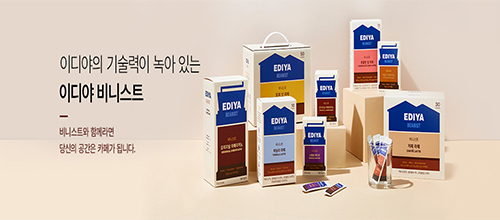
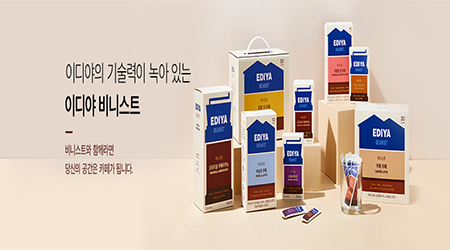
v3

diff --git a/index.html b/index.html
@@ -13,17 +13,17 @@
 
 <body>
   <input type="checkbox" id="popup_chk">
-    <div class="popup">
-      <div class="popup_img">
-        <a href="#!">
-          <img src="./img/popup_img.jpg" alt="popup_img">
-        </a>
-      </div>
-      <div class="popup_close">
-        <p><i class="far fa-check-circle"></i> 오늘하루동안 닫을래요</p>
-        <label for="popup_chk">닫기 X</label>
-      </div>
+  <div class="popup">
+    <div class="popup_img">
+      <a href="#!">
+        <img src="./img/popup_img.jpg" alt="popup_img">
+      </a>
     </div>
+    <div class="popup_close">
+      <p><i class="far fa-check-circle"></i> 오늘하루동안 닫을래요</p>
+      <label for="popup_chk">닫기 X</label>
+    </div>
+  </div>
 
   <input type="checkbox" id="menu_chk">
   <input type="checkbox" id="drop_chk">
@@ -50,10 +50,15 @@
             <li><a href="#">마이페이지</a></li>
           </ul>
           <ul class="sns">
-            <li class="blog"><a href="#"><i class="fas fa-blog"></i></a></li>
-            <li class="insta"><a href="#"><i class="fab fa-instagram"></i></a></li>
-            <li class="face"><a href="#"><i class="fab fa-facebook-f"></i></a></li>
-            <li class="youtube"><a href="#"><i class="fab fa-youtube"></i></a></li>
+            <li class="blog"><a href="https://blog.naver.com/ediya-coffee" target="_blank"><i
+                  class="fas fa-blog"></i></a></li>
+            <li class="insta"><a href="https://www.instagram.com/ediya.coffee/" target="_blank"><i
+                  class="fab fa-instagram"></i></a>
+            </li>
+            <li class="face"><a href="https://www.facebook.com/iEDIYA" target="_blank"><i
+                  class="fab fa-facebook-f"></i></a></li>
+            <li class="youtube"><a href="https://www.youtube.com/channel/UCK45lxAV_92LqR2DcQCP8Qg?view_as=subscriber"
+                target="_blank"><i class="fab fa-youtube"></i>
           </ul>
         </div>
 
@@ -219,7 +224,7 @@
         <picture>
           <source media="(min-width:1170px)" srcset="./img/visual_banner.jpg">
           <source media="(min-width:601px)" srcset="./img/visual_banner.jpg">
-          <source media="(min-width:321px)" srcset="./img/visual_banner_mobile1.jpg">
+          <source media="(min-width:321px)" srcset="./img/visual_banner_m.jpg">
           <img src="./img/visual_banner_mobile1.jpg" alt="이미지" style="width:100%">
         </picture>
       </div>
@@ -1142,7 +1147,7 @@
           <label for="every" class="eve">All</label>
           <label for="all_coffee" class="ac">커피</label>
           <label for="all_tea" class="at">음료·티</label>
-          <label for="all_cake" class="ae">디저트</label>
+          <label for="all_cake" class="ae">케이크</label>
         </div>
 
         <div class="all_select">
@@ -1658,15 +1663,20 @@
       </section>
       <div class="bottom_sns">
         <ul class="sns">
-          <li class="blog"><a href="#!"><i class="fas fa-blog"></i></a></li>
-          <li class="insta"><a href="#!"><i class="fab fa-instagram"></i></a></li>
-          <li class="face"><a href="#!"><i class="fab fa-facebook-f"></i></a></li>
-          <li class="youtube"><a href="#!"><i class="fab fa-youtube"></i></a></li>
+          <li class="blog"><a href="https://blog.naver.com/ediya-coffee" target="_blank"><i class="fas fa-blog"></i></a>
+          </li>
+          <li class="insta"><a href="https://www.instagram.com/ediya.coffee/" target="_blank"><i
+                class="fab fa-instagram"></i></a></li>
+          <li class="face"><a href="https://www.facebook.com/iEDIYA" target="_blank"><i
+                class="fab fa-facebook-f"></i></a></li>
+          <li class="youtube"><a href="https://www.youtube.com/channel/UCK45lxAV_92LqR2DcQCP8Qg?view_as=subscriber"
+              target="_blank"><i class="fab fa-youtube"></i></a></li>
         </ul>
       </div>
-
     </div>
   </div>
+
+
 
   <footer class="footer">
     <div class="footer_inner">
@@ -1721,12 +1731,15 @@
       $('.visual_banner').slick({
         dots: true,
         infinite: true,
-        autoplay: true
+        autoplay: true,
+        fade: true,
+        speed:500
       });
     });
 
     $(document).ready(function () {
       $('.best_slide').slick({
+        autoplay: true,
         slidesToShow: 4,
         slidesToScroll: 1,
         speed: 400,

diff --git a/css/main.css b/css/main.css
@@ -64,8 +64,8 @@ label {
 
 .popup_img img {
   width: 100%;
-  height: 350px;
-  border-radius: 50px 50px 0 0;
+  height: 310px;
+  border-radius: 40px 40px 0 0;
 }
 
 .popup_close {
@@ -1159,6 +1159,7 @@ label {
 }
 
 .bottom_sns {
+  margin: 30px 0;
   height: 60px;
   line-height: 60px;
 }
@@ -1545,17 +1546,18 @@ label {
     width: 55px;
     height: 55px;
     line-height: 20px;
-    padding-top: 5px;
+    padding-top: 10px;
     margin-bottom: 5px;
   }
 
   .quick .up {
     line-height: 25px;
     height: 30px;
+    padding-top: 5px;
   }
 
   .quick a i {
-    font-size: 1.2rem;
+    font-size: 1.3rem;
   }
 
   .all_sheet {
